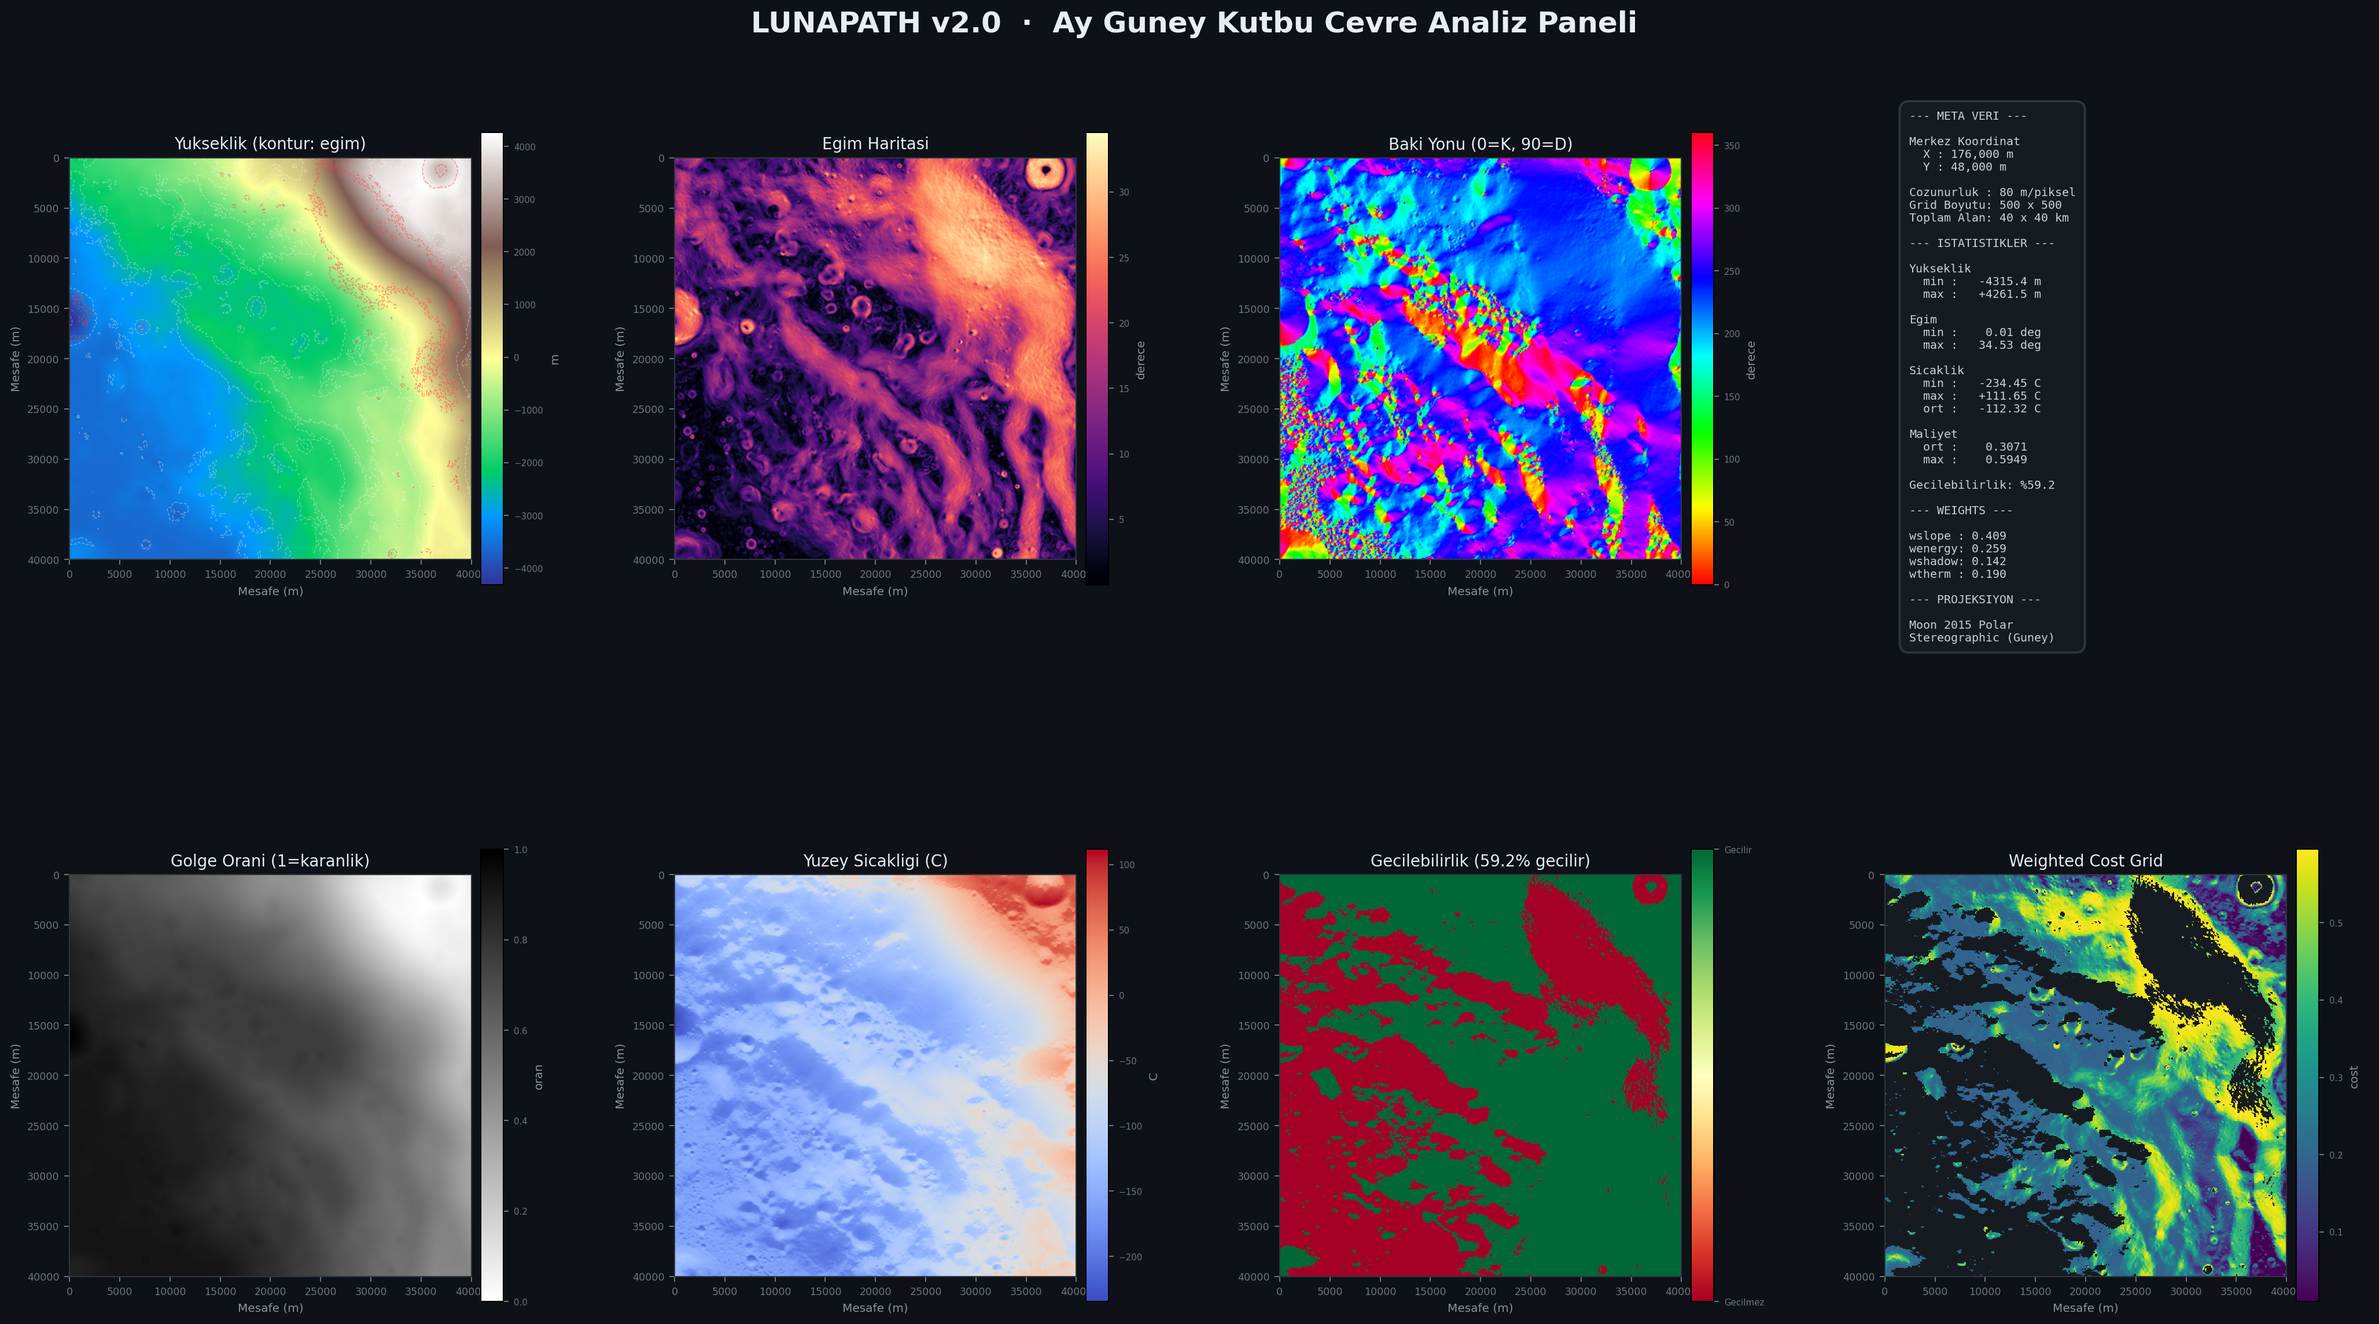
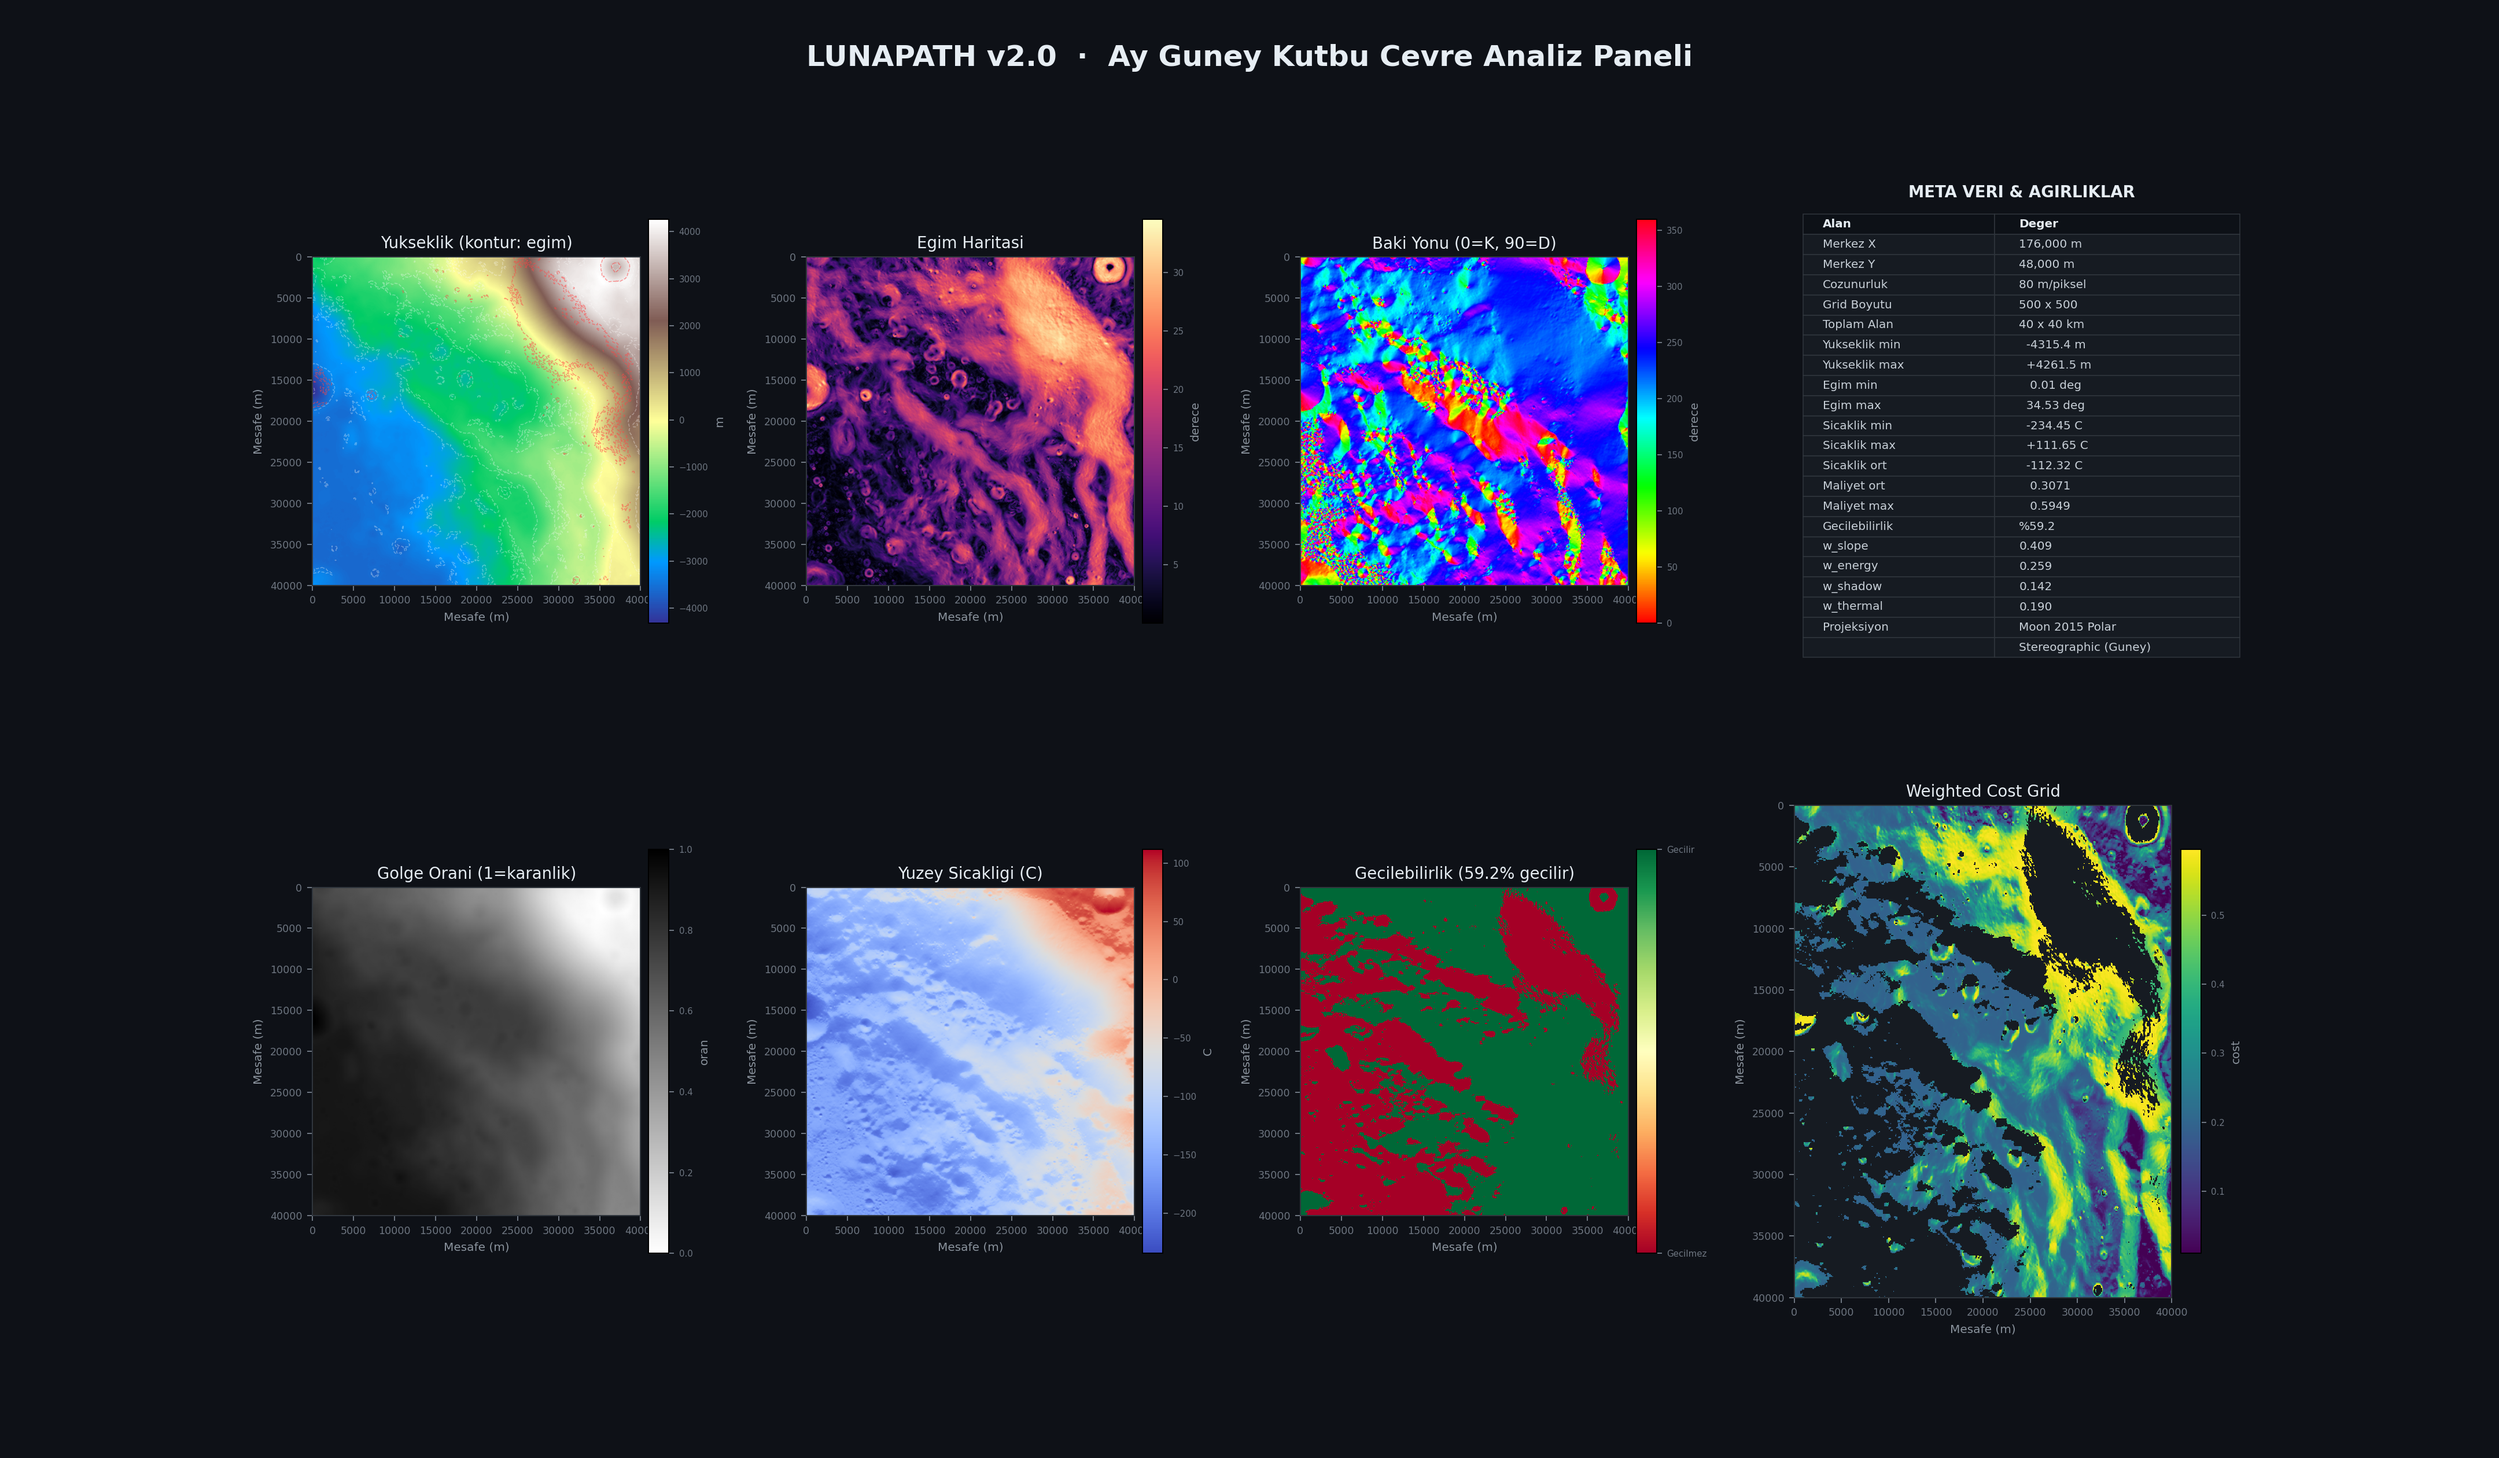
Update dashboard visualization by implementing GridSpec for improved layout and restructuring info display in 'visualize_processed_data.py'. Replace old subplot method with individual axes for better control. Update environment dashboard image.

diff --git a/lunapath/src/visualize_processed_data.py b/lunapath/src/visualize_processed_data.py
@@ -16,7 +16,6 @@ import json
 from pathlib import Path
 
 import matplotlib.pyplot as plt
-import matplotlib.ticker as ticker
 import numpy as np
 
 # --- Yollar ------------------------------------------------------------------
@@ -66,8 +65,7 @@ def build_dashboard(grids: dict[str, np.ndarray], meta: dict) -> None:
 
     # --- Figur ---------------------------------------------------------------
     fig = plt.figure(figsize=(24, 14), facecolor="#0e1117")
-    fig.subplots_adjust(left=0.05, right=0.97, top=0.92, bottom=0.05,
-                        wspace=0.25, hspace=0.30)
+    gs = fig.add_gridspec(2, 4, width_ratios=[1.0, 1.0, 1.0, 1.15], wspace=0.24, hspace=0.28)
 
     title_color = "#e6edf3"
     label_color = "#8b949e"
@@ -78,9 +76,17 @@ def build_dashboard(grids: dict[str, np.ndarray], meta: dict) -> None:
         fontsize=20, fontweight="bold", color=title_color, y=0.97,
     )
 
-    axes = fig.subplots(2, 4)
+    # Sabit GridSpec kullanimi, bilgi paneli ve cost panelinin daralmasini engeller.
+    ax1 = fig.add_subplot(gs[0, 0])
+    ax2 = fig.add_subplot(gs[0, 1])
+    ax3 = fig.add_subplot(gs[0, 2])
+    info_ax = fig.add_subplot(gs[0, 3])
+    ax4 = fig.add_subplot(gs[1, 0])
+    ax5 = fig.add_subplot(gs[1, 1])
+    ax6 = fig.add_subplot(gs[1, 2])
+    ax7 = fig.add_subplot(gs[1, 3])
 
-    for ax in axes.flat:
+    for ax in [ax1, ax2, ax3, ax4, ax5, ax6, ax7]:
         ax.set_facecolor("#161b22")
         ax.tick_params(colors=tick_color, labelsize=7)
         for spine in ax.spines.values():
@@ -97,7 +103,6 @@ def build_dashboard(grids: dict[str, np.ndarray], meta: dict) -> None:
     cost = grids["cost_grid"]
 
     # Panel 1: Yukseklik + egim konturlari
-    ax1 = axes[0, 0]
     im1 = ax1.imshow(elev, cmap="terrain", extent=extent, aspect="equal",
                      interpolation="bilinear")
     cb1 = fig.colorbar(im1, ax=ax1, shrink=0.82, pad=0.02)
@@ -111,7 +116,6 @@ def build_dashboard(grids: dict[str, np.ndarray], meta: dict) -> None:
     ax1.set_title("Yukseklik (kontur: egim)", fontsize=11, color=title_color, pad=6)
 
     # Panel 2: Egim
-    ax2 = axes[0, 1]
     im2 = ax2.imshow(slope, cmap="magma", extent=extent, aspect="equal",
                      interpolation="bilinear")
     cb2 = fig.colorbar(im2, ax=ax2, shrink=0.82, pad=0.02)
@@ -120,7 +124,6 @@ def build_dashboard(grids: dict[str, np.ndarray], meta: dict) -> None:
     ax2.set_title("Egim Haritasi", fontsize=11, color=title_color, pad=6)
 
     # Panel 3: Aspect (Baki Yonu)
-    ax3 = axes[0, 2]
     im3 = ax3.imshow(aspect, cmap="hsv", extent=extent, aspect="equal",
                      vmin=0, vmax=360, interpolation="bilinear")
     cb3 = fig.colorbar(im3, ax=ax3, shrink=0.82, pad=0.02)
@@ -129,7 +132,6 @@ def build_dashboard(grids: dict[str, np.ndarray], meta: dict) -> None:
     ax3.set_title("Baki Yonu (0=K, 90=D)", fontsize=11, color=title_color, pad=6)
 
     # Panel 4: Shadow Ratio
-    ax4 = axes[1, 0]
     im4 = ax4.imshow(shadow, cmap="gray_r", extent=extent, aspect="equal",
                      vmin=0, vmax=1, interpolation="bilinear")
     cb4 = fig.colorbar(im4, ax=ax4, shrink=0.82, pad=0.02)
@@ -138,7 +140,6 @@ def build_dashboard(grids: dict[str, np.ndarray], meta: dict) -> None:
     ax4.set_title("Golge Orani (1=karanlik)", fontsize=11, color=title_color, pad=6)
 
     # Panel 5: Thermal
-    ax5 = axes[1, 1]
     im5 = ax5.imshow(thermal, cmap="coolwarm", extent=extent, aspect="equal",
                      interpolation="bilinear")
     cb5 = fig.colorbar(im5, ax=ax5, shrink=0.82, pad=0.02)
@@ -147,7 +148,6 @@ def build_dashboard(grids: dict[str, np.ndarray], meta: dict) -> None:
     ax5.set_title("Yuzey Sicakligi (C)", fontsize=11, color=title_color, pad=6)
 
     # Panel 6: Traversability
-    ax6 = axes[1, 2]
     im6 = ax6.imshow(trav, cmap="RdYlGn", extent=extent, aspect="equal",
                      vmin=0, vmax=1, interpolation="nearest")
     cb6 = fig.colorbar(im6, ax=ax6, shrink=0.82, pad=0.02, ticks=[0, 1])
@@ -158,9 +158,8 @@ def build_dashboard(grids: dict[str, np.ndarray], meta: dict) -> None:
                   fontsize=11, color=title_color, pad=6)
 
     # Panel 7: Weighted cost grid
-    ax7 = axes[1, 3]
     masked_cost = np.where(np.isfinite(cost), cost, np.nan)
-    im7 = ax7.imshow(masked_cost, cmap="viridis", extent=extent, aspect="equal",
+    im7 = ax7.imshow(masked_cost, cmap="viridis", extent=extent, aspect="auto",
                      interpolation="nearest")
     cb7 = fig.colorbar(im7, ax=ax7, shrink=0.82, pad=0.02)
     cb7.set_label("cost", fontsize=8, color=label_color)
@@ -168,7 +167,6 @@ def build_dashboard(grids: dict[str, np.ndarray], meta: dict) -> None:
     ax7.set_title("Weighted Cost Grid", fontsize=11, color=title_color, pad=6)
 
     # --- Bilgi notu (ayri panel) ---------------------------------------------
-    info_ax = axes[0, 3]
     info_ax.set_facecolor("#161b22")
     info_ax.axis("off")
     origin_x = meta["origin"]["x"]
@@ -179,63 +177,64 @@ def build_dashboard(grids: dict[str, np.ndarray], meta: dict) -> None:
     cost_max = float(np.max(finite_cost)) if finite_cost.size > 0 else float("nan")
     weight_info = meta.get("cost_weights", {})
 
-    info_lines = [
-        "--- META VERI ---",
-        "",
-        f"Merkez Koordinat",
-        f"  X : {origin_x:,.0f} m",
-        f"  Y : {origin_y:,.0f} m",
-        "",
-        f"Cozunurluk : {res:.0f} m/piksel",
-        f"Grid Boyutu: {rows} x {cols}",
-        f"Toplam Alan: {total_km:.0f} x {total_km:.0f} km",
-        "",
-        "--- ISTATISTIKLER ---",
-        "",
-        f"Yukseklik",
-        f"  min : {np.nanmin(elev):>+9.1f} m",
-        f"  max : {np.nanmax(elev):>+9.1f} m",
-        "",
-        f"Egim",
-        f"  min : {np.nanmin(slope):>7.2f} deg",
-        f"  max : {np.nanmax(slope):>7.2f} deg",
-        "",
-        f"Sicaklik",
-        f"  min : {np.nanmin(thermal):>+9.2f} C",
-        f"  max : {np.nanmax(thermal):>+9.2f} C",
-        f"  ort : {np.nanmean(thermal):>+9.2f} C",
-        "",
-        f"Maliyet",
-        f"  ort : {cost_mean:>9.4f}",
-        f"  max : {cost_max:>9.4f}",
-        "",
-        f"Gecilebilirlik: %{passable_pct:.1f}",
-        "",
-        "--- WEIGHTS ---",
-        "",
-        f"wslope : {weight_info.get('w_slope', float('nan')):.3f}",
-        f"wenergy: {weight_info.get('w_energy', float('nan')):.3f}",
-        f"wshadow: {weight_info.get('w_shadow', float('nan')):.3f}",
-        f"wtherm : {weight_info.get('w_thermal', float('nan')):.3f}",
-        "",
-        "--- PROJEKSIYON ---",
-        "",
-        "Moon 2015 Polar",
-        "Stereographic (Guney)",
+    info_ax.text(
+        0.5,
+        0.98,
+        "META VERI & AGIRLIKLAR",
+        ha="center",
+        va="top",
+        fontsize=11,
+        fontweight="bold",
+        color=title_color,
+    )
+    info_rows = [
+        ("Merkez X", f"{origin_x:,.0f} m"),
+        ("Merkez Y", f"{origin_y:,.0f} m"),
+        ("Cozunurluk", f"{res:.0f} m/piksel"),
+        ("Grid Boyutu", f"{rows} x {cols}"),
+        ("Toplam Alan", f"{total_km:.0f} x {total_km:.0f} km"),
+        ("Yukseklik min", f"{np.nanmin(elev):>+9.1f} m"),
+        ("Yukseklik max", f"{np.nanmax(elev):>+9.1f} m"),
+        ("Egim min", f"{np.nanmin(slope):>7.2f} deg"),
+        ("Egim max", f"{np.nanmax(slope):>7.2f} deg"),
+        ("Sicaklik min", f"{np.nanmin(thermal):>+9.2f} C"),
+        ("Sicaklik max", f"{np.nanmax(thermal):>+9.2f} C"),
+        ("Sicaklik ort", f"{np.nanmean(thermal):>+9.2f} C"),
+        ("Maliyet ort", f"{cost_mean:>9.4f}"),
+        ("Maliyet max", f"{cost_max:>9.4f}"),
+        ("Gecilebilirlik", f"%{passable_pct:.1f}"),
+        ("w_slope", f"{weight_info.get('w_slope', float('nan')):.3f}"),
+        ("w_energy", f"{weight_info.get('w_energy', float('nan')):.3f}"),
+        ("w_shadow", f"{weight_info.get('w_shadow', float('nan')):.3f}"),
+        ("w_thermal", f"{weight_info.get('w_thermal', float('nan')):.3f}"),
+        ("Projeksiyon", "Moon 2015 Polar"),
+        ("", "Stereographic (Guney)"),
     ]
 
-    info_ax.text(
-        0.05, 0.95,
-        "\n".join(info_lines),
-        fontsize=8, fontfamily="monospace", color="#c9d1d9",
-        verticalalignment="top",
-        bbox=dict(boxstyle="round,pad=0.8", facecolor="#161b22",
-                  edgecolor="#30363d", linewidth=1.5),
+    table = info_ax.table(
+        cellText=[[k, v] for k, v in info_rows],
+        colLabels=["Alan", "Deger"],
+        cellLoc="left",
+        colLoc="left",
+        bbox=[0.02, 0.02, 0.96, 0.90],
+        colWidths=[0.42, 0.54],
     )
+    table.auto_set_font_size(False)
+    table.set_fontsize(8)
+    table.scale(1.0, 1.18)
+    for (row, _col), cell in table.get_celld().items():
+        if row == 0:
+            cell.set_text_props(color=title_color, weight="bold")
+            cell.set_facecolor("#0d1117")
+        else:
+            cell.set_text_props(color="#c9d1d9")
+            cell.set_facecolor("#161b22")
+        cell.set_edgecolor("#30363d")
+        cell.set_linewidth(0.6)
 
     # --- Kaydet & Goster -----------------------------------------------------
     out_path = PROCESSED_DIR / "environment_dashboard.png"
-    fig.savefig(out_path, dpi=180, facecolor=fig.get_facecolor(), bbox_inches="tight")
+    fig.savefig(out_path, dpi=180, facecolor=fig.get_facecolor())
     print(f"Dashboard kaydedildi: {out_path}")
     plt.show()
 
